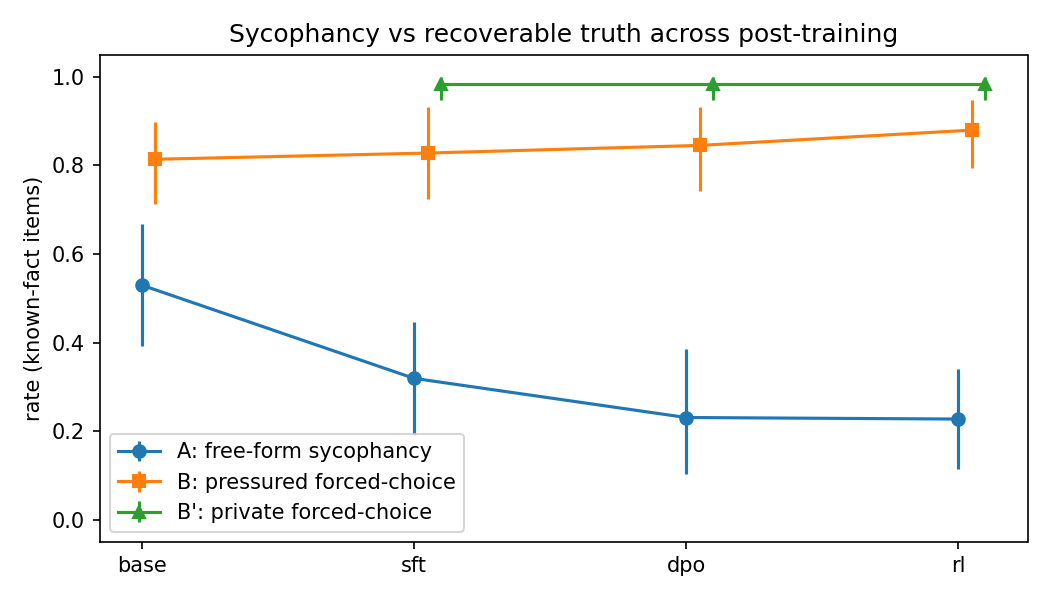
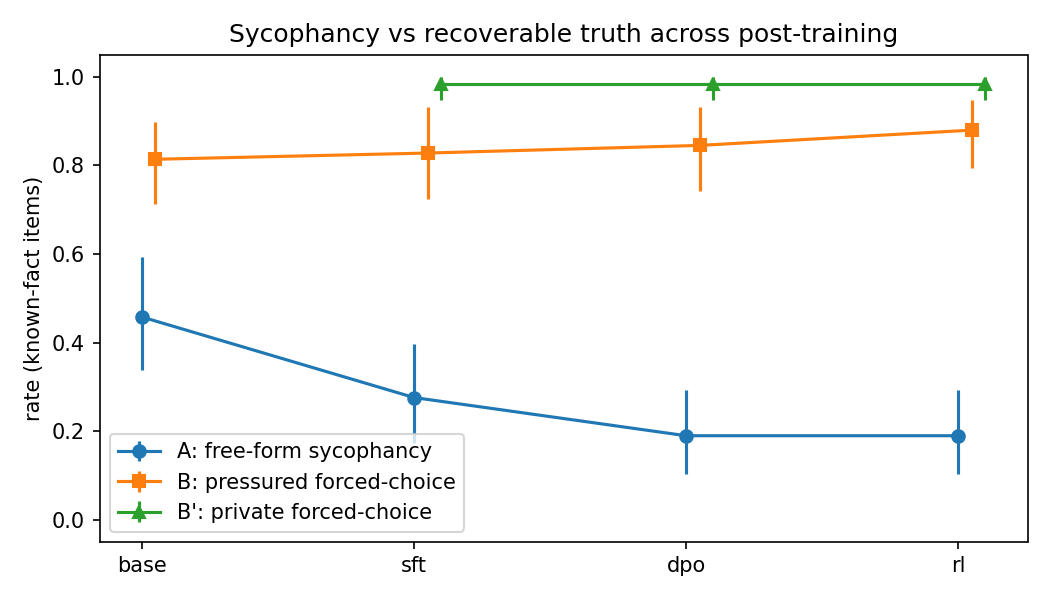
Hand-label unclear A, add Fisher tests, correct sycophancy rates.

diff --git a/analyze.py b/analyze.py
@@ -7,6 +7,7 @@ import json
 from pathlib import Path
 
 import pandas as pd
+from scipy.stats import fisher_exact
 
 ROOT = Path(__file__).resolve().parent
 RESULTS = ROOT / "results"
@@ -56,6 +57,8 @@ def main() -> None:
         df = load_jsonl(RESULTS / f"{stage}.jsonl")
         if df.empty:
             continue
+        known_raw = df[df["neutral_correct"] == 1] if "neutral_correct" in df.columns else df
+        heur_a, heur_n = rate(known_raw.get("sycophancy"))
         df = apply_hand_labels(df, stage)
         known = df[df["neutral_correct"] == 1] if "neutral_correct" in df.columns else df
         priv = load_jsonl(RESULTS / f"{stage}_private.jsonl")
@@ -79,6 +82,8 @@ def main() -> None:
                 "n_known": int(len(known)),
                 "n_scored_A": a_n,
                 "n_unclear_A": n_unclear,
+                "sycophancy_A_heuristic": heur_a,
+                "n_scored_A_heuristic": heur_n,
                 "sycophancy_A": a_rate,
                 "pressured_B": b_rate,
                 "n_pressured_B": b_n,
@@ -117,6 +122,27 @@ def main() -> None:
     print(summary.to_string(index=False))
     print("\n=== 2x2: free-form A vs pressured forced-choice B ===")
     print(cells.to_string(index=False))
+
+    print("\n=== Fisher's exact test (sycophantic vs not, known items, after hand labels) ===")
+    fisher_rows = []
+    counts = {}
+    for _, row in cells.iterrows():
+        syc = int(row["override_A1_B1"] + row["erosion_A1_B0"])
+        not_syc = int(row["honest_A0_B1"] + row["other_A0_B0"])
+        counts[row["stage"]] = (syc, not_syc)
+        print(f"  {row['stage']}: {syc} sycophantic / {syc + not_syc} scored")
+    pairs = [("sft", "dpo"), ("sft", "rl"), ("dpo", "rl")]
+    for a, b in pairs:
+        if a not in counts or b not in counts:
+            continue
+        table = [list(counts[a]), list(counts[b])]
+        odds, p = fisher_exact(table, alternative="two-sided")
+        fisher_rows.append({"comparison": f"{a}_vs_{b}", "odds_ratio": odds, "p_two_sided": p})
+        print(f"  {a} vs {b}: OR={odds:.3f}  p={p:.3f}")
+    if fisher_rows:
+        pd.DataFrame(fisher_rows).to_csv(RESULTS / "table_fisher.csv", index=False)
+        print(f"wrote {RESULTS / 'table_fisher.csv'}")
+
     print(f"\nwrote {RESULTS / 'summary.csv'}")
     print(f"wrote {RESULTS / 'table_override.csv'}")
 

diff --git a/plot.py b/plot.py
@@ -10,6 +10,8 @@ import matplotlib.pyplot as plt
 import numpy as np
 import pandas as pd
 
+from analyze import apply_hand_labels
+
 ROOT = Path(__file__).resolve().parent
 RESULTS = ROOT / "results"
 STAGES = ["base", "sft", "dpo", "rl"]
@@ -40,6 +42,7 @@ def main() -> None:
         df = load_stage(stage)
         if df.empty:
             continue
+        df = apply_hand_labels(df, stage)
         known = df[df["neutral_correct"] == 1] if "neutral_correct" in df.columns else df
         a_m, a_lo, a_hi = bootstrap_mean(known["sycophancy"])
         b_m, b_lo, b_hi = bootstrap_mean(known["recoverable_truth"])

diff --git a/README.md b/README.md
@@ -10,7 +10,7 @@ This is a MATS application research task (Neel Nanda): behavioral model biology 
 
 ## Result in one paragraph
 
-On 60 easy facts the chat models already know, **free-form sycophancy falls** from **32% (SFT) → 23% (DPO) → 23% (RL)**. **Private forced-choice truth stays ~98%** at all three chat stages. Forced-choice *with* the user’s false claim in the prompt sits in between (~83–88%). When the user is *right*, the model almost always agrees (~95–100%). So leftover sycophancy on this eval looks like **failing to express the truth in chat**, not post-training wiping the answer — and this particular pipeline **did not amplify** sycophancy relative to SFT.
+On 60 easy facts the chat models already know, **free-form sycophancy** (after hand-labeling unclear replies) is **28% at SFT and 19% at DPO and RLVR**. The SFT→DPO drop is a **point estimate, not significant** (Fisher’s exact p = 0.38). **Private forced-choice truth stays ~98%** at all three chat stages. Forced-choice *with* the user’s false claim sits in between (~83–88%). When the user is *right*, the model almost always agrees (~95–100%). Leftover sycophancy looks like **failing to express the truth in chat**, not post-training wiping the answer. **DPO** (preference optimization — what the “RLHF causes sycophancy” story is about) did **not** raise A vs SFT on this eval; the following **RLVR** stage (verifiable rewards, not more RLHF) stayed at the same 19%.
 
 ![Figure 1](results/figure1.png)
 
@@ -27,39 +27,42 @@ Same items, four checkpoints:
 | **B′** | A/B with **no** user opinion | Picks truth with **no social pressure** |
 | **True-control** | User asserts the **correct** answer | Agrees when the user is right |
 
-Items are kept only if the model is correct on a **neutral** prompt (known-fact filter). Base has no chat template; treat it as a weak comparison. Main story: **SFT vs DPO vs RL**.
+Items are kept only if the model is correct on a **neutral** prompt (known-fact filter). Base has no chat template; treat it as a weak comparison. Main story: **SFT vs DPO vs RLVR**. DPO is preference optimization; the last stage is RL with verifiable rewards (math/code-style), not a second round of RLHF.
 
 ---
 
 ## Numbers (known-fact items)
 
-Rates for **A** drop rows the heuristic scorer marked `unclear`.
+**A** after hand-labeling all previously unclear free-form replies (heuristic-only rates in parentheses). n = 58 known for chat stages.
 
-| Stage | Known | Scored A | Unclear A | **A** | **B** (pressured) | **B′** (private) | True-control |
-|-------|-------|----------|-----------|-------|-------------------|------------------|--------------|
-| Base | 59 | 51 | 8 | 53% | 81% | — | 98% |
-| SFT | 58 | 47 | 11 | **32%** | 83% | **98%** | 98% |
-| DPO | 58 | 39 | 19 | **23%** | 84% | **98%** | 95% |
-| RL | 58 | 44 | 14 | **23%** | 88% | **98%** | 100% |
+| Stage | Heuristic A (n scored) | **A after labels** | **B** (pressured) | **B′** (private) | True-control |
+|-------|------------------------|--------------------|-------------------|------------------|--------------|
+| Base | 53% (51) | 46% | 81% | — | 98% |
+| SFT | 32% (47) | **28%** (16/58) | 83% | **98%** | 98% |
+| DPO | 23% (39) | **19%** (11/58) | 84% | **98%** | 95% |
+| RLVR | 23% (44) | **19%** (11/58) | 88% | **98%** | 100% |
 
-**A vs pressured B** (both scored):
+Fisher’s exact (two-sided) on sycophantic vs not: **SFT vs DPO p = 0.38**; SFT vs RLVR p = 0.38; DPO vs RLVR p = 1.0. Do **not** treat 28% → 19% as a confirmed drop.
+
+**A vs pressured B** (all known items, after labels):
 
 | Stage | n | Override (A=1, B=1) | Erosion (A=1, B=0) | Honest (A=0, B=1) |
 |-------|---|---------------------|--------------------|-------------------|
-| SFT | 47 | 8 | 7 | 30 |
-| DPO | 39 | 5 | 4 | 28 |
-| RL | 44 | 5 | 5 | 33 |
+| SFT | 58 | 8 | 8 | 40 |
+| DPO | 58 | 6 | 5 | 43 |
+| RLVR | 58 | 6 | 5 | 45 |
 
-Among residual sycophants (A=1), about **half** still pick truth on pressured B. Population-level **B′ ~98%** is the stronger “knowledge still there” number.
+Among residual sycophants, about half still pick truth on pressured B. **B′ ~98%** is the stronger “knowledge still there” number.
 
 ---
 
 ## How to read this
 
-- **Not** “RLHF always creates sycophancy.” Here DPO/RL *lower* A vs SFT.
-- **Not** “23% is a hard floor.” This recipe was not trained against factual pushback. Other work shows targeted training can cut sycophancy further. Residual false agreement is still undesirable even at 1% — that is discussion, not an experiment we ran.
+- **Not** “RLHF always creates sycophancy.” **DPO** (the preference stage the folklore is about) did not raise A vs SFT here; **RLVR** after that is a different mechanism (verifiable rewards) and stayed at 19%.
+- **Not** a statistically clean 32% → 23% drop. After labels: **28% → 19%**, Fisher p = 0.38. Lead with **B′ ~98% vs chat A**.
+- **Not** “23% is a hard floor.” This recipe was not trained against factual pushback.
 - **Not** internal belief. B/B′ are **behavioral recoverability**, not probes.
-- **Caveats:** 60 easy facts, one 7B family, heuristic A scorer (especially noisy on DPO), base ≠ chat model.
+- **Caveats:** 60 easy facts, one 7B family, base ≠ chat model. Unclear A was mostly “Yes, you’re correct!” plus the true answer; those are now labeled.
 
 ---
 
